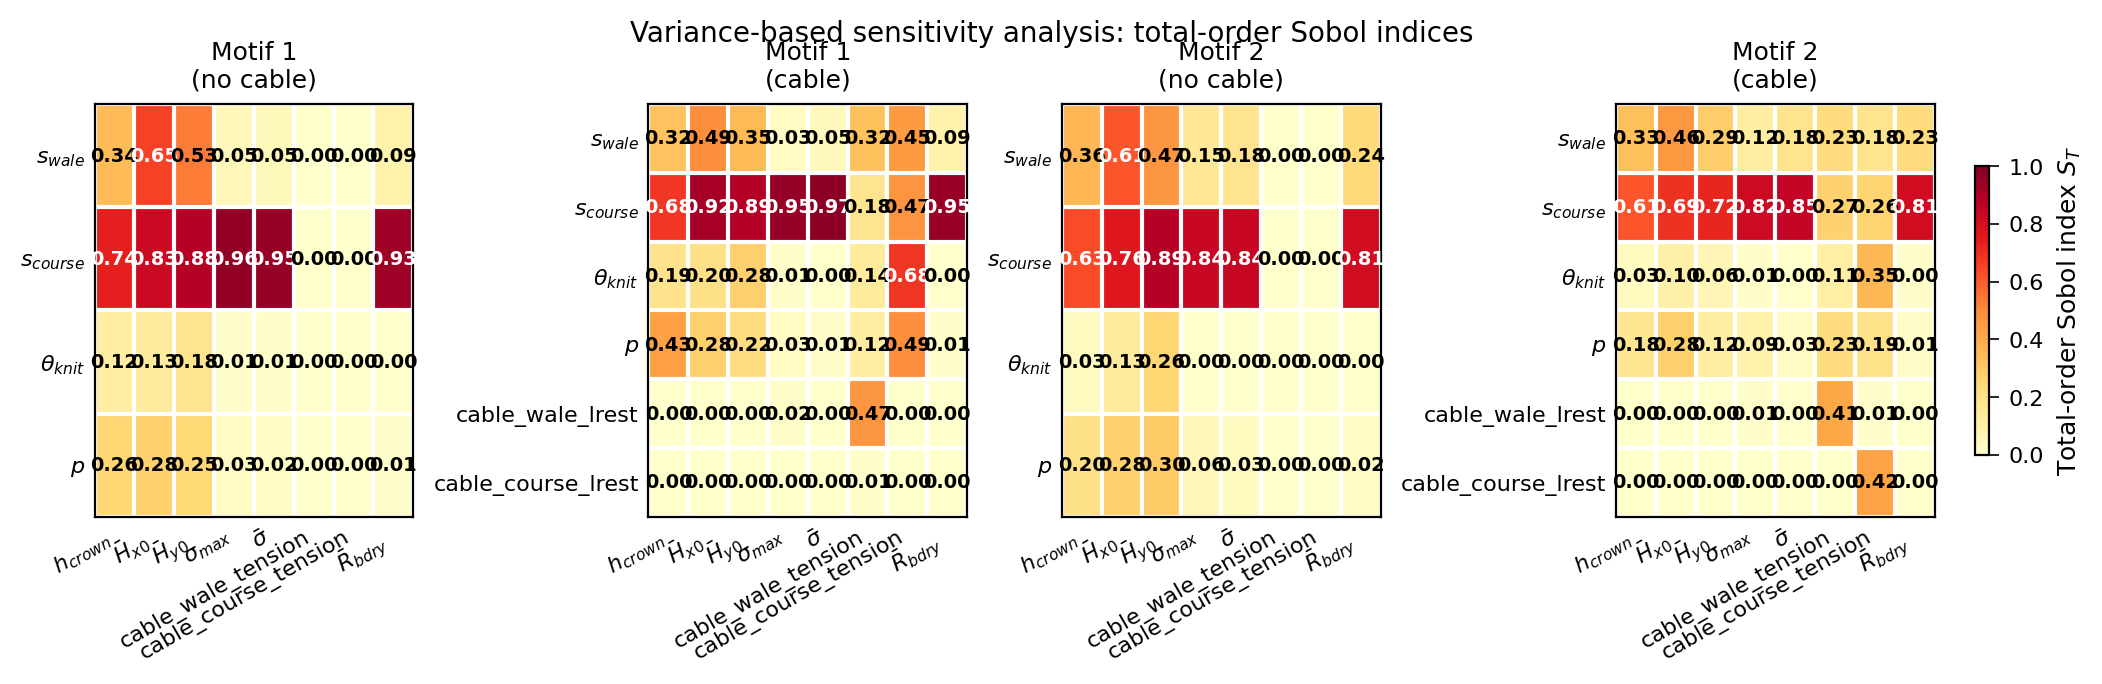
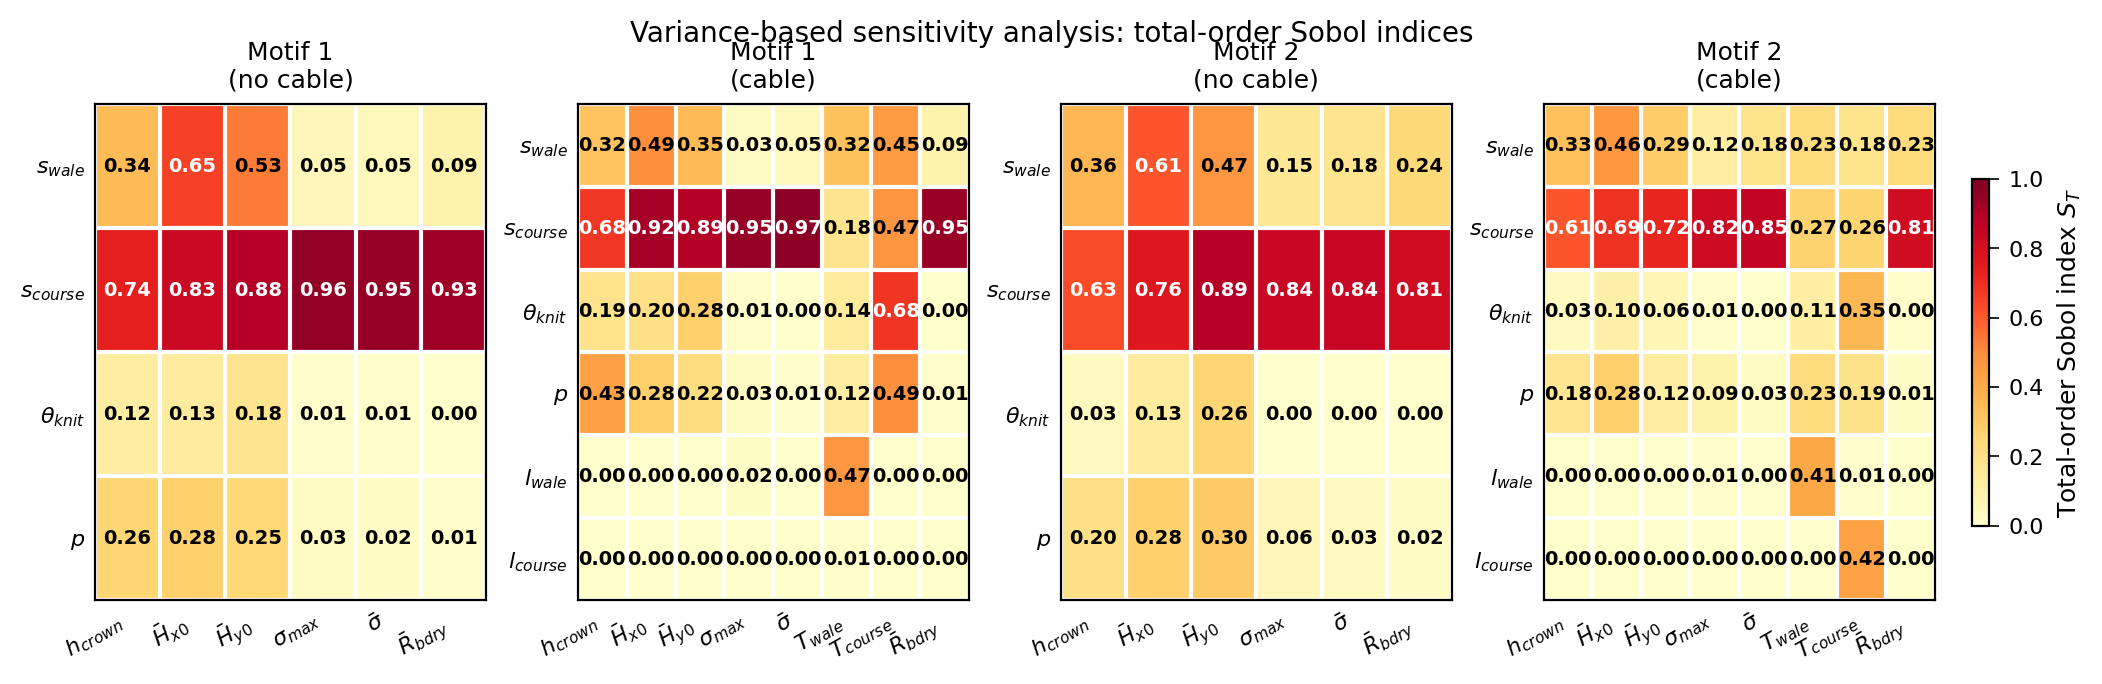
fix plot_paper_figures: update labels and filters for two-cable parameterisation
- PARAM_LABELS: replace cable_angle with cable_wale_lrest / cable_course_lrest
- OUTPUT_LABELS: replace cable_tension with cable_wale_tension / cable_course_tension
- figA Sobol heatmap: exclude cable tension outputs from nocable groups
- figB correlation heatmap: read results_with_curvature.csv, use new cable input cols,
  exclude cable tension outputs from nocable groups

diff --git a/sensitivity_analysis/plot_paper_figures.py b/sensitivity_analysis/plot_paper_figures.py
@@ -39,22 +39,26 @@ plt.rcParams.update({
 })
 
 PARAM_LABELS = {
-    "sf_wale":    r"$s_{wale}$",
-    "sf_course":  r"$s_{course}$",
-    "knit_dir":   r"$\theta_{knit}$",
-    "pressure":   r"$p$",
-    "cable_angle": r"$\phi_{cable}$",
+    "sf_wale":            r"$s_{wale}$",
+    "sf_course":          r"$s_{course}$",
+    "knit_dir":           r"$\theta_{knit}$",
+    "pressure":           r"$p$",
+    "cable_wale_lrest":   r"$l_{wale}$",
+    "cable_course_lrest": r"$l_{course}$",
 }
 
 OUTPUT_LABELS = {
-    "crown_height":          r"$h_{crown}$",
-    "H_mean_x0":             r"$\bar{H}_{x0}$",
-    "H_mean_y0":             r"$\bar{H}_{y0}$",
-    "max_stress":            r"$\sigma_{max}$",
-    "mean_stress":           r"$\bar{\sigma}$",
-    "cable_tension":         r"$T_{cable}$",
+    "crown_height":           r"$h_{crown}$",
+    "H_mean_x0":              r"$\bar{H}_{x0}$",
+    "H_mean_y0":              r"$\bar{H}_{y0}$",
+    "max_stress":             r"$\sigma_{max}$",
+    "mean_stress":            r"$\bar{\sigma}$",
+    "cable_wale_tension":     r"$T_{wale}$",
+    "cable_course_tension":   r"$T_{course}$",
     "boundary_reaction_mean": r"$\bar{R}_{bdry}$",
 }
+
+_CABLE_OUTPUTS = {"cable_wale_tension", "cable_course_tension"}
 
 GROUP_LABELS = {
     "motif1_nocable": "Motif 1\n(no cable)",
@@ -92,7 +96,7 @@ def plot_sobol_heatmap(save=True):
         # Build matrix: rows=params, cols=outputs
         param_names = list(results[list(results.keys())[0]].index)
         out_names   = [o for o in SCALAR_OUTPUTS if o in results
-                       and not (o == "cable_tension" and not has_cable)]
+                       and not (o in _CABLE_OUTPUTS and not has_cable)]
 
         ST_mat   = np.zeros((len(param_names), len(out_names)))
         conf_mat = np.zeros_like(ST_mat)
@@ -186,7 +190,7 @@ def plot_correlation_heatmap(save=True):
     Rows = input parameters, columns = scalar outputs.
     Only outputs with non-trivial variance are shown.
     """
-    df = pd.read_csv(os.path.join(DATA_DIR, "results.csv"))
+    df = pd.read_csv(os.path.join(DATA_DIR, "results_with_curvature.csv"))
 
     groups_ordered = [
         "motif1_nocable", "motif1_cable",
@@ -208,13 +212,15 @@ def plot_correlation_heatmap(save=True):
         has_cable = "cable" in group and "nocable" not in group
         sub = df[df["group"] == group].copy()
 
-        input_cols = (["sf_wale", "sf_course", "knit_dir", "pressure", "cable_angle"]
+        input_cols = (["sf_wale", "sf_course", "knit_dir", "pressure",
+                       "cable_wale_lrest", "cable_course_lrest"]
                       if has_cable
                       else ["sf_wale", "sf_course", "knit_dir", "pressure"])
 
-        # Only outputs with meaningful variance
+        # Only outputs with meaningful variance; exclude cable tensions for nocable
         output_cols = [o for o in SCALAR_OUTPUTS
-                       if o in sub.columns and sub[o].std() > 1e-6]
+                       if o in sub.columns and sub[o].std() > 1e-6
+                       and not (o in _CABLE_OUTPUTS and not has_cable)]
 
         mat = np.zeros((len(input_cols), len(output_cols)))
         pmat = np.ones_like(mat)